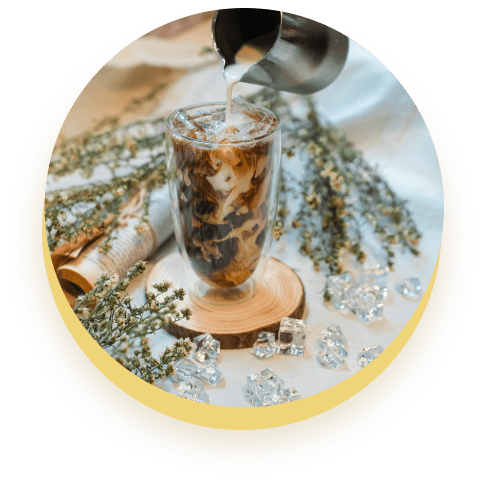
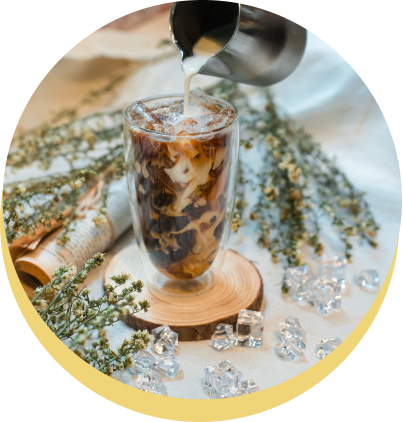
alot of

diff --git a/src/partials/gallery.html b/src/partials/gallery.html
@@ -1,54 +1,77 @@
 <section class="gallery">
   <div class="container">
-    <h2 class="">gallery</h2>
-    <div class="swiper mySwiper swiper-desktop">
-      <div class="swiper-wrapper">
-        <div class="swiper-slide gallery__tumb">
-          <picture>
-            <source
-              srcset="
-                ./images/desktop/var-ice1.jpg    1x,
-                ./images/desktop/var-ice1-2x.jpg 2x
-              "
-              media="(min-width: 1200px)"
-            />
-            <img
-              src="./images/desktop/var-ice1.jpg"
-              alt="ice-cream picture 1"
-              width="1013"
-            />
-          </picture>
+    <h2 class="visually-hidden">gallery</h2>
+    <div class="gallery-offset">
+      <picture class="gallery-tablet">
+        <source
+          srcset="
+            ./images/tablet/ice-gal.jpg    1x,
+            ./images/tablet/ice-gal-2x.jpg 2x
+          "
+          media="(min-width: 768px)"
+        />
+        <source
+          srcset="
+            ./images/mobile/ice-prod.jpg    1x,
+            ./images/mobile/ice-prod-2x.jpg 2x
+          "
+          media="(min-width: 480px)"
+        />
+        <img
+          src="./images/desktop/var-ice1.jpg"
+          alt="ice-cream picture 1"
+          width="1013"
+        />
+      </picture>
+      <div class="swiper gallerySwiper swiper-desktop">
+        <div class="swiper-wrapper">
+          <div class="swiper-slide gallery__tumb">
+            <picture class="gallery__img">
+              <source
+                srcset="
+                  ./images/desktop/var-ice1.jpg    1x,
+                  ./images/desktop/var-ice1-2x.jpg 2x
+                "
+              />
+              <img
+                src="./images/desktop/var-ice1.jpg"
+                alt="ice-cream picture 1"
+                width="1013"
+              />
+            </picture>
+          </div>
+          <div class="swiper-slide gallery__tumb">
+            <picture class="gallery__img">
+              <source
+                srcset="
+                  ./images/desktop/var-ice2.jpg    1x,
+                  ./images/desktop/var-ice2-2x.jpg 2x
+                "
+              />
+              <img
+                src="./images/desktop/var-ice2.jpg"
+                alt="ice-cream picture 2"
+                width="1013"
+              />
+            </picture>
+          </div>
+          <div class="swiper-slide gallery__tumb">
+            <picture class="gallery__img">
+              <source
+                srcset="
+                  ./images/desktop/var-ice3.jpg    1x,
+                  ./images/desktop/var-ice3-2x.jpg 2x
+                "
+              />
+              <img
+                src="./images/desktop/var-ice3.jpg"
+                alt="ice-cream picture 3"
+                width="1013"
+              />
+            </picture>
+          </div>
         </div>
-        <div class="swiper-slide gallery__tumb"><picture>
-            <source
-              srcset="
-                ./images/desktop/var-ice2.jpg    1x,
-                ./images/desktop/var-ice2-2x.jpg 2x
-              "
-              media="(min-width: 1200px)"
-            />
-            <img
-              src="./images/desktop/var-ice2.jpg"
-              alt="ice-cream picture 2"
-              width="1013"
-            />
-          </picture></div>
-        <div class="swiper-slide"><picture>
-            <source
-              srcset="
-                ./images/desktop/var-ice3.jpg    1x,
-                ./images/desktop/var-ice3-2x.jpg 2x
-              "
-              media="(min-width: 1200px)"
-            />
-            <img
-              src="./images/desktop/var-ice3.jpg"
-              alt="ice-cream picture 3"
-              width="1013"
-            />
-          </picture></div>
       </div>
-      
     </div>
   </div>
 </section>

diff --git a/src/sass/partials/_gallery.scss b/src/sass/partials/_gallery.scss
@@ -1,11 +1,53 @@
+.gallery{
+    margin-bottom: 80px;
+}
 .gallery-reviews{
     display: flex;
     flex-direction: column;
     align-items: center;
     background-image: url(../images/mobile/bgr/bgr-f2.png);
 }
-.gallery__tumb{
+.gallery-offset{
+    margin-top: -24px;
+
+    @include tablet{
+        margin-top: -164px;
+    }
+
+    @include desktop{
+        margin-top: -94px;
+    }
+}
+.gallery-tablet * {
     width: 100%;
-    height: 442px;
+    margin-left: auto;
+    margin-right: auto;
+    @include desktop{
+        display: none;
+    }
+}
+.swiper-desktop {
+    display: none;
+
+    @include desktop {
+        display: block;
+    }
+}
+.gallery__tumb {
+    width: 1013px;
+    height: 422px;
+    overflow: hidden;
+}
+
+.gallery__img * {
+    object-fit: cover;
+    overflow: hidden;
+    height: 100%;
+    margin-left: auto;
+    margin-right: auto;
     border-radius: 24px;
 }
+
+// .gallery__img {
+//     height: 100%;
+// }

diff --git a/src/partials/reviews.html b/src/partials/reviews.html
@@ -1,5 +1,21 @@
 <section class="reviews">
   <div class="container">
+    <div class="swiper mySwiper">
+      <div class="swiper-wrapper">
+        <div class="swiper-slide">Slide 1</div>
+        <div class="swiper-slide">Slide 2</div>
+        <div class="swiper-slide">Slide 3</div>
+        <div class="swiper-slide">Slide 4</div>
+        <div class="swiper-slide">Slide 5</div>
+        <div class="swiper-slide">Slide 6</div>
+        <div class="swiper-slide">Slide 7</div>
+        <div class="swiper-slide">Slide 8</div>
+        <div class="swiper-slide">Slide 9</div>
+      </div>
+      <div class="swiper-pagination"></div>
+    </div>
+
+<!--     
     <div>
       <picture>
         <source
@@ -14,6 +30,6 @@
       <div>
         <p></p>
       </div>
-    </div>
+    </div> -->
   </div>
 </section>

diff --git a/src/index.html b/src/index.html
@@ -14,6 +14,8 @@
       rel="stylesheet"
       href="https://cdn.jsdelivr.net/npm/swiper/swiper-bundle.min.css"
     />
+    <link
+      rel="stylesheet" href="https://cdn.jsdelivr.net/npm/swiper/swiper-bundle.min.js"/>
     <link rel="stylesheet" href="./sass/index.scss" />
     <script type="module" src="./index.js"></script>
   </head>

diff --git a/src/partials/header.html b/src/partials/header.html
@@ -31,7 +31,6 @@
               <li><a href="">Our products</a></li>
               <li><a href="">Contact</a></li>
             </ul>
-
     </nav>
     <button class="open-mob_menu js-open-menu">
       <svg width="40" height="37">

diff --git a/src/js/reviews-swiper.js b/src/js/reviews-swiper.js
@@ -1,0 +1,7 @@
+const swiper = new Swiper(".mySwiper", {
+        spaceBetween: 30,
+        pagination: {
+          el: ".swiper-pagination",
+          clickable: true,
+        },
+      });

diff --git a/src/index.js b/src/index.js
@@ -1,2 +1,3 @@
 import './js/modal.js'
-const swiper = new Swiper(".mySwiper", {});
+import "./js/gallery-swiper"
+import "./js/reviews-swiper"

diff --git a/src/sass/base/_base-drop.scss b/src/sass/base/_base-drop.scss
@@ -15,9 +15,6 @@ address {
 }
 
 img {
-    width: 100%;
-    max-width: 100%;
-    height: auto;
     display: block;
 }
 

diff --git a/src/js/gallery-swiper.js b/src/js/gallery-swiper.js
@@ -1,0 +1,1 @@
+const swiper = new Swiper(".gallerySwiper");
